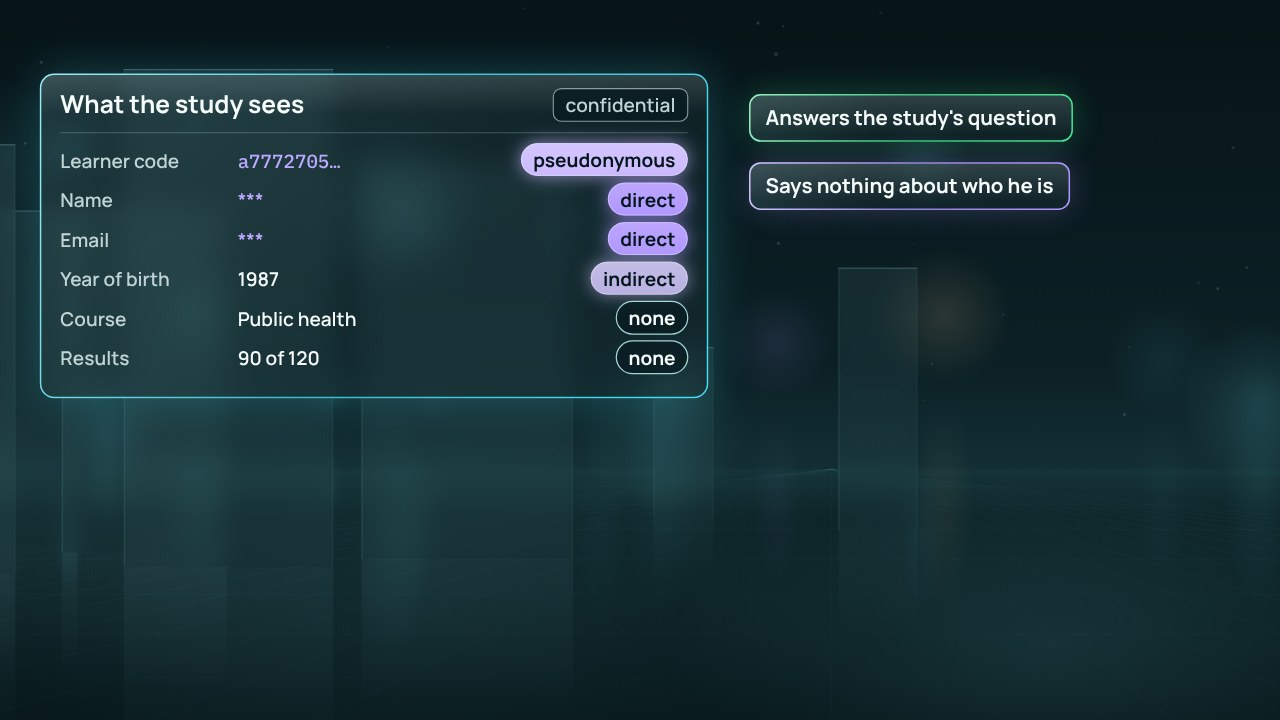
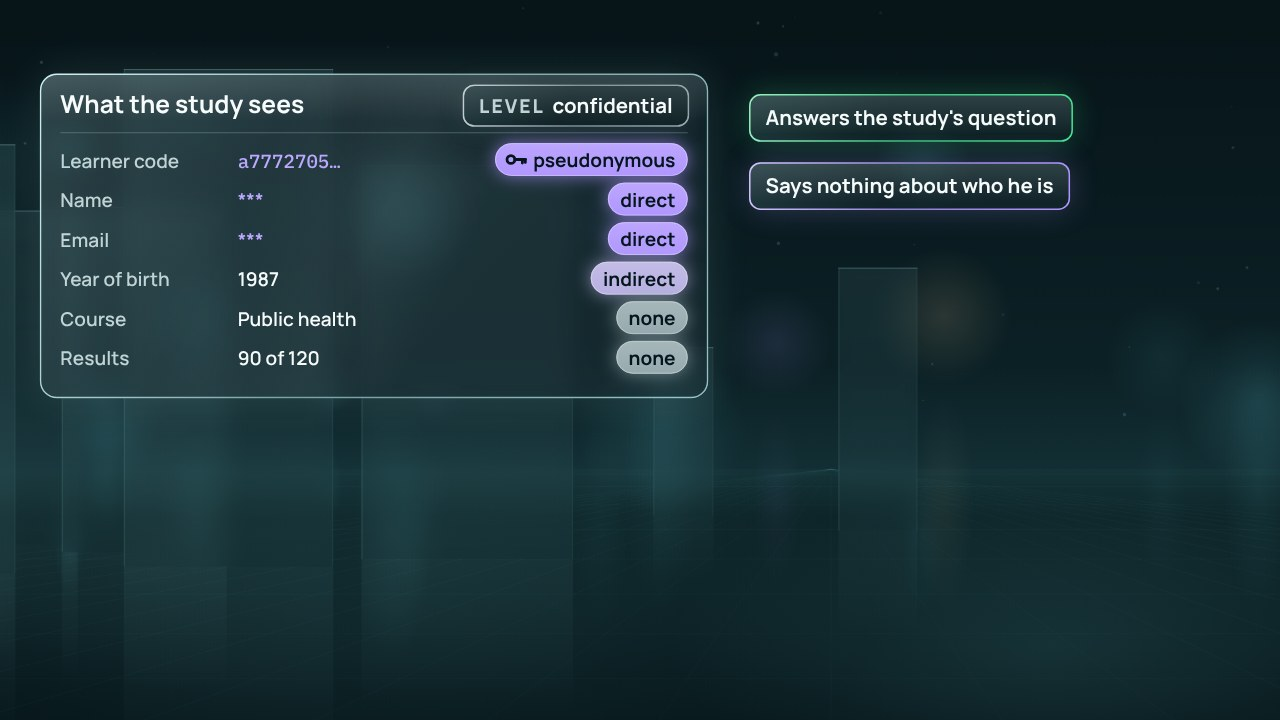
Show the least: classes and levels drawn as Know what you hold draws them
A column's class is a solid pill with dark words (special, direct and
pseudonymous in violet, special with a second ring, pseudonymous with a
small key; indirect in the quieter violet; none grey), and a table's
level is how far its pane is frosted, with a slip reading LEVEL and the
level's name, so films 11 and 12 agree. The published totals' card is
840 px wide so its slip clears its title. Frost over a single value
still means encryption. Poster, player and legibility row redrawn.

Claude-Session: https://claude.ai/code/session_01XBKciMHB6GxCUf9Z4uUume

Changed region(s): [[0.3438, 0.0917, 0.5625, 0.275], [0.4688, 0.3972, 0.5625, 0.55], [0.0312, 0.0917, 0.0625, 0.1222]]

diff --git a/site/assets/show-the-least/film.js b/site/assets/show-the-least/film.js
@@ -1942,8 +1942,10 @@ function sl_1872(ctx,t,o){o=o||{};const [px,py,pw,ph]=SL_T.paper,[sx,sy,sw,sh]=S
 /* ===== Show the least: what is shown in the hall =====
    Cards of frosted glass in the module's hall (glass.js), each in the colour of what it means: violet hidden personal data (stars,
    codes, "fewer than 10"), coral closed or a match that leaks, cyan an identity, gold only the chip on the sealed key. Frost over a
-   value means one thing here: encryption. The class chips are drawn as Know what you hold draws them: solid pills with dark words,
-   special violet with a double rim, direct violet, pseudonymous lilac, indirect pale lilac, none clear ice with ice words.
+   value means one thing here: encryption. Classes and levels are drawn as Know what you hold draws them (its thread's note, 10
+   November 2026): a column's class is a solid pill with dark words, special, direct and pseudonymous in the violet of hidden data
+   (special with a second ring, pseudonymous with a small key), indirect in the quieter violet, none grey; a table's level is how far
+   its pane is frosted (public clear, internal 0.4, confidential 0.8, restricted 1 with a violet rim) and a slip, "LEVEL" and its name.
    Every value changes in its cell: the old one leaves before the new one comes in, so two are never readable at once. */
 
 AG_PLACES.slHall=c=>dp_paintHall(c,{seed:12,horizon:700,vx:1240,pools:[[1560,960,560,0.11],[620,900,700,0.06]]});
@@ -1952,19 +1954,57 @@ function sl_once(sc,k,fn){sc.__sl=sc.__sl||{};if(!(k in sc.__sl))sc.__sl[k]=fn()
 const sl_out=u=>1-ag_sine(clamp(u*2,0,1)),sl_inn=u=>ag_sine(clamp(u*2-1,0,1));
 
 /* ---------------------------------------------------------------- chips: a column's class, a table's level */
-const SL_CLS={special:{col:"violet",dbl:true},direct:{col:"violet"},pseudonymous:{col:[204,186,255]},indirect:{col:"violet2"},none:{glass:true}};
-// a class chip, its words' baseline at y; align "right" puts its right edge at x; returns its width
+const SL_CLS={special:{col:"violet",dbl:true},direct:{col:"violet"},pseudonymous:{col:"violet",key:true},indirect:{col:"violet2"},none:{col:"grey"}};
+// a pill as the kit draws one (dp_pill: solid colour, dark words, y the words' baseline), with room before its words for a small
+// picture when icon(ctx, x, y) draws one, its middle at x, y; returns its width
+function sl_pill(ctx,x0,y,text,col,o){o=o||{};const c=dp_f(col),size=o.size||28,ix=o.icon?38:0,w=dp_tw(ctx,text,{w:700,size})+36+ix,h=size+20,a=o.a==null?1:o.a;if(a<=0)return w;
+  ctx.save();ctx.globalAlpha*=a;
+  ctx.save();ctx.shadowColor=rgba(c,0.7);ctx.shadowBlur=o.glow==null?18:o.glow;rr(ctx,x0,y-h+12,w,h,h/2);
+  const g=ctx.createLinearGradient(0,y-h+12,0,y+12);g.addColorStop(0,rgba(mix(c,[255,255,255],0.16),1));g.addColorStop(1,rgba(c,1));ctx.fillStyle=g;ctx.fill();ctx.restore();
+  rr(ctx,x0+0.6,y-h+12.6,w-1.2,h-1.2,h/2-0.6);ctx.strokeStyle=rgba(mix(c,[255,255,255],0.5),0.9);ctx.lineWidth=1.2;ctx.stroke();
+  if(o.icon)o.icon(ctx,x0+30,y-h/2+12,24);
+  dp_T(ctx,text,x0+18+ix,y-1,{w:700,size,col:DP.on});ctx.restore();return w;}
+// a small key, in the dark of words on solid colour, its bow's middle at x, y, s about its length (as Know what you hold draws it)
+function sl_keyGlyph(ctx,x,y,s){s=s||24;ctx.save();ctx.strokeStyle=rgba(DP.on,1);ctx.lineWidth=Math.max(2.4,s*0.17);ctx.lineCap="round";
+  ctx.beginPath();ctx.arc(x-s*0.28,y,s*0.24,0,TAU);ctx.stroke();ctx.beginPath();ctx.moveTo(x-s*0.04,y);ctx.lineTo(x+s*0.62,y);
+  ctx.moveTo(x+s*0.42,y);ctx.lineTo(x+s*0.42,y+s*0.22);ctx.moveTo(x+s*0.6,y);ctx.lineTo(x+s*0.6,y+s*0.18);ctx.stroke();ctx.restore();}
+// a class chip, its words' baseline at y; align "right" puts its right edge at x; special has a second ring; returns its width
 function sl_chip(ctx,x,y,cls,o){o=o||{};const C=SL_CLS[cls],a=o.a==null?1:o.a,size=o.size||28;if(!C||a<=0)return 0;
-  const w=dp_tw(ctx,cls,{w:700,size})+36,h=size+20,x0=o.align==="right"?x-w:o.align==="center"?x-w/2:x;
-  if(!C.glass){dp_pill(ctx,x0,y,cls,C.col,{size,a,glow:o.glow});
-    if(C.dbl){ctx.save();ctx.globalAlpha*=a;rr(ctx,x0-5,y-h+7,w+10,h+10,h/2+5);ctx.strokeStyle=rgba(mix(dp_f("violet"),[255,255,255],0.3),1);ctx.lineWidth=2;ctx.stroke();ctx.restore();}
-    return w;}
-  ctx.save();ctx.globalAlpha*=a;rr(ctx,x0,y-h+12,w,h,h/2);ctx.fillStyle="rgba(8,26,32,0.72)";ctx.fill();ctx.strokeStyle=rgba(DP.ice,0.85);ctx.lineWidth=1.8;ctx.stroke();
-  dp_T(ctx,cls,x0+18,y-1,{w:700,size,col:"ink"});ctx.restore();return w;}
-// a table's level, on a glass pill: confidential, restricted (rimmed in violet), public
-function sl_level(ctx,x,y,lv,o){o=o||{};const a=o.a==null?1:o.a;if(a<=0)return 0;const size=28,w=dp_tw(ctx,lv,{w:600,size})+36,h=48,x0=o.align==="right"?x-w:x;
-  ctx.save();ctx.globalAlpha*=a;rr(ctx,x0,y-h+12,w,h,12);ctx.fillStyle="rgba(8,26,32,0.8)";ctx.fill();ctx.strokeStyle=lv==="restricted"?rgba(dp_f("violet"),1):rgba(DP.F.grey,0.9);ctx.lineWidth=lv==="restricted"?2.6:1.6;ctx.stroke();
-  dp_T(ctx,lv,x0+18,y-1,{w:600,size,col:lv==="restricted"?"violet":"mut"});ctx.restore();return w;}
+  const w=dp_tw(ctx,cls,{w:700,size})+36+(C.key?38:0),h=size+20,x0=o.align==="right"?x-w:o.align==="center"?x-w/2:x,top=y-h+12;
+  sl_pill(ctx,x0,y,cls,C.col,{size,a,glow:o.glow,icon:C.key?sl_keyGlyph:null});
+  if(C.dbl){const c=dp_f(C.col),m=7,rw=w+2*m,rh=h+2*m;ctx.save();ctx.globalAlpha*=a;ctx.shadowColor=rgba(c,0.85);ctx.shadowBlur=12;
+    ctx.strokeStyle=rgba(mix(c,[255,255,255],0.3),1);ctx.lineWidth=2.4;rr(ctx,x0-m,top-m,rw,rh,rh/2);ctx.stroke();ctx.restore();}
+  return w;}
+// a table's level, as Know what you hold shows it: a slip of glass, grey (violet for restricted), its top right at x, y, reading "LEVEL"
+// and the level's name; returns its width
+function sl_level(ctx,x,y,lv,o){o=o||{};const a=o.a==null?1:o.a,lw=dp_tw(ctx,"LEVEL",{w:800,size:28,ls:3}),w=24+lw+14+dp_tw(ctx,lv,{w:700,size:30})+24,h=62,x0=x-w;
+  if(a<=0)return w;ctx.save();ctx.globalAlpha*=a;
+  dp_panel(ctx,x0,y,w,h,{col:lv==="restricted"?"violet":"grey",r:16,glowR:24,glowA:0.7,behind:o.behind});
+  dp_T(ctx,"LEVEL",x0+24,y+42,{w:800,size:28,ls:3,col:"mut"});dp_T(ctx,lv,x0+24+lw+14,y+42,{w:700,size:30});ctx.restore();return w;}
+// a table's pane of glass, as Know what you hold draws it: frosted as far as its level asks (public clear, internal 0.4, confidential
+// 0.8, restricted 1 with a violet rim); its edges catch the light in ice; o.rim overrides the violet rim (0 to 1); o.r, o.a, o.behind
+const SL_LEVEL={public:{frost:0,rim:0},internal:{frost:0.4,rim:0},confidential:{frost:0.8,rim:0},restricted:{frost:1,rim:1}};
+function sl_tablePane(ctx,x,y,w,h,o){o=o||{};const a=o.a==null?1:o.a;if(a<=0.001)return;const L=SL_LEVEL[o.level]||SL_LEVEL.confidential,fr=L.frost,
+  rim=clamp(o.rim==null?L.rim:o.rim,0,1),r=o.r==null?24:o.r,ice=DP.ice;
+  ctx.save();ctx.globalAlpha*=clamp(a,0,1);
+  ctx.save();ctx.shadowColor=rgba(ice,0.10+0.16*fr);ctx.shadowBlur=44;rr(ctx,x,y,w,h,r);ctx.fillStyle=rgba([6,20,26],0.12+0.5*fr);ctx.fill();ctx.restore();
+  ctx.save();rr(ctx,x,y,w,h,r);ctx.clip();
+  if(fr>0){ctx.save();ctx.globalAlpha*=fr;dp_behind(ctx,o.behind);ctx.restore();}
+  ctx.fillStyle=rgba([6,20,26],0.10+0.20*fr);ctx.fillRect(x,y,w,h);
+  const tg=ctx.createLinearGradient(x,y,x+w*0.5,y+h);tg.addColorStop(0,rgba([170,228,232],0.035+0.14*fr));tg.addColorStop(1,rgba([170,228,232],0.015+0.06*fr));ctx.fillStyle=tg;ctx.fillRect(x,y,w,h);
+  // a sheen across clear glass
+  const sg=ctx.createLinearGradient(x,y,x+w,y+h);sg.addColorStop(0,"rgba(210,248,248,0.07)");sg.addColorStop(0.32,"rgba(210,248,248,0.0)");sg.addColorStop(0.5,"rgba(210,248,248,0.05)");sg.addColorStop(0.62,"rgba(210,248,248,0)");
+  ctx.fillStyle=sg;ctx.fillRect(x,y,w,h);
+  const hg=ctx.createLinearGradient(0,y,0,y+70);hg.addColorStop(0,"rgba(225,250,250,"+(0.06+0.1*fr).toFixed(3)+")");hg.addColorStop(1,"rgba(255,255,255,0)");ctx.fillStyle=hg;ctx.fillRect(x,y,w,70);
+  ctx.restore();
+  // its edges catch the light; a restricted table's rim is violet
+  const eg=ctx.createLinearGradient(x,y,x+w,y+h);eg.addColorStop(0,rgba(mix(ice,[255,255,255],0.4),0.95));eg.addColorStop(0.5,rgba(ice,0.55));eg.addColorStop(1,rgba(ice,0.75));
+  rr(ctx,x+1,y+1,w-2,h-2,r);ctx.strokeStyle=eg;ctx.lineWidth=2;ctx.stroke();
+  if(rim>0)sl_rim(ctx,x,y,w,h,r,"violet",rim);
+  ctx.restore();}
+// a rim of colour round a pane, with its glow: a restricted table's violet, or the coral of a table that's closed
+function sl_rim(ctx,x,y,w,h,r,col,a){const v=dp_f(col);ctx.save();ctx.globalAlpha*=a;ctx.shadowColor=rgba(v,0.95);ctx.shadowBlur=22;rr(ctx,x-3,y-3,w+6,h+6,r+3);
+  ctx.strokeStyle=rgba(mix(v,[255,255,255],0.25),1);ctx.lineWidth=3.2;ctx.stroke();ctx.restore();}
 
 /* ---------------------------------------------------------------- Samuel's record, field by field
    rows: [{label, label2, lu, v, v2, u, mono, col, col2, chip, chip2, cu, chipA, lit, a, blank}]: v the value as it is, v2 what it
@@ -1975,13 +2015,13 @@ const SL_RW=58;
 function sl_recordH(rows){return 120+rows.length*SL_RW+8;}
 function sl_record(ctx,x,y,rows,o){o=o||{};const w=o.w||980,h=sl_recordH(rows),a=o.a==null?1:o.a;if(a<=0)return{x,y,w,h};
   ctx.save();ctx.globalAlpha*=a;if(o.k!=null)ag_about(ctx,x+w/2,y+h/2,lerp(0.6,1,o.k));
-  dp_panel(ctx,x,y,w,h,{col:o.col||"cyan",r:20,behind:o.behind});
+  const pl=o.level||o.paneLevel;if(pl)sl_tablePane(ctx,x,y,w,h,{level:pl,behind:o.behind});else dp_panel(ctx,x,y,w,h,{col:o.col||"cyan",r:20,behind:o.behind});
   // the title, which may change in place (title2, over tu)
   const tu=o.title2?clamp(o.tu||0,0,1):0;if(tu<1)dp_T(ctx,o.title||"Learner records",x+30,y+58,{w:700,size:36,a:o.title2?sl_out(tu):1});if(tu>0)dp_T(ctx,o.title2,x+30,y+58,{w:700,size:36,a:sl_inn(tu)});
-  if(o.level)sl_level(ctx,x+w-30,y+58,o.level,{align:"right",a:o.levelA==null?1:o.levelA});
+  if(o.level)sl_level(ctx,x+w-28,y+16,o.level,{a:o.levelA==null?1:o.levelA});
   ctx.fillStyle=rgba(DP.ice,0.25);ctx.fillRect(x+30,y+86,w-60,1.5);
   rows.forEach((r,i)=>{const by=y+138+i*SL_RW,ra=r.a==null?1:r.a;if(ra<=0)return;ctx.save();ctx.globalAlpha*=ra;
-    if(r.lit>0){ctx.save();ctx.globalAlpha*=clamp(r.lit,0,1);rr(ctx,x+14,by-40,w-28,54,12);ctx.fillStyle="rgba(120,220,235,0.10)";ctx.fill();ctx.fillStyle=rgba(DP.F.cyan,0.95);ctx.fillRect(x+14,by-34,4,42);ctx.restore();}
+    if(r.lit>0){ctx.save();ctx.globalAlpha*=clamp(r.lit,0,1);rr(ctx,x+14,by-40,w-28,54,12);ctx.fillStyle="rgba(120,220,235,0.075)";ctx.fill();ctx.fillStyle=rgba(DP.F.cyan,0.95);ctx.fillRect(x+14,by-34,4,42);ctx.restore();}
     const lu=r.label2?(r.lu==null?r.u||0:r.lu):0;
     if(lu<1)dp_T(ctx,r.label,x+30,by,{w:600,size:28,col:"mut",a:r.label2?sl_out(lu):1});if(r.label2&&lu>0)dp_T(ctx,r.label2,x+30,by,{w:600,size:28,col:"mut",a:sl_inn(lu)});
     const u=r.v2!=null?clamp(r.u||0,0,1):0,vx=x+290;
@@ -2066,11 +2106,11 @@ function sl_agree(ctx,x,y,w,rows,o){o=o||{};const a=o.a==null?1:o.a,lines=[],inn
 /* ---------------------------------------------------------------- the other cards */
 // the support table: one column, exam support, its values never drawn; closed shows it isn't given (coral)
 function sl_support(ctx,x,y,w,o){o=o||{};const a=o.a==null?1:o.a,h=196;if(a<=0)return{x,y,w,h};const cl=clamp(o.closed||0,0,1);ctx.save();ctx.globalAlpha*=a;
-  dp_panel(ctx,x,y,w,h,{col:cl>0.5?"coral":"violet",r:20});dp_T(ctx,"Support table",x+30,y+58,{w:700,size:36});
-  sl_level(ctx,x+w-30,y+58,"restricted",{align:"right"});
+  sl_tablePane(ctx,x,y,w,h,{level:"restricted",rim:1-cl});if(cl>0)sl_rim(ctx,x,y,w,h,24,"coral",cl);dp_T(ctx,"Support table",x+30,y+58,{w:700,size:36});
+  sl_level(ctx,x+w-28,y+16,"restricted");
   dp_T(ctx,"Exam support",x+30,y+136,{w:600,size:28,col:"mut"});ctx.fillStyle=rgba(DP.F.grey,0.35);rr(ctx,x+290,y+114,170,16,8);ctx.fill();
   if(o.chip!==false)sl_chip(ctx,x+w-30,y+136,"special",{align:"right",a:o.chipA==null?1:o.chipA});
-  if(cl>0){ctx.save();ctx.globalAlpha*=cl;rr(ctx,x,y,w,h,20);ctx.fillStyle="rgba(40,12,14,0.55)";ctx.fill();dp_pill(ctx,x+w/2,y+h/2+12,"Not given to the study","coral",{align:"center"});ctx.restore();}
+  if(cl>0){ctx.save();ctx.globalAlpha*=cl;rr(ctx,x,y,w,h,24);ctx.fillStyle="rgba(40,12,14,0.55)";ctx.fill();dp_pill(ctx,x+w/2,y+h/2+12,"Not given to the study","coral",{align:"center"});ctx.restore();}
   ctx.restore();return{x,y,w,h};}
 // a small card: a title and lines of words, each [text, colour, mono]
 function sl_note(ctx,x,y,w,title,lines,o){o=o||{};const a=o.a==null?1:o.a,h=86+lines.length*46;if(a<=0)return{x,y,w,h};ctx.save();ctx.globalAlpha*=a;
@@ -2102,11 +2142,11 @@ function sl_list(ctx,x,y,o){o=o||{};const a=o.a==null?1:o.a,w=560,h=96+SL_LIST.l
   ctx.restore();return{x,y,w,h,row:i=>[x+w,y+104+i*46-10]};}
 // published totals: learners who left after their first year, by course; a cell may read "fewer than 10" or "hidden"
 const SL_TOT=[["Nursing","38"],["Midwifery","4"],["Public health","21"],["Health sciences","17"],["Faculty of Health","80"]];
-function sl_totals(ctx,x,y,o){o=o||{};const a=o.a==null?1:o.a,w=760,h=118+SL_TOT.length*52;if(a<=0)return{x,y,w,h};ctx.save();ctx.globalAlpha*=a;
-  if(o.k!=null)ag_about(ctx,x+w/2,y+h/2,lerp(0.6,1,o.k));dp_panel(ctx,x,y,w,h,{col:"cyan",r:20});dp_T(ctx,"Left after first year · by course",x+30,y+58,{w:700,size:34});
-  sl_level(ctx,x+w-30,y+58,"public",{align:"right"});ctx.fillStyle=rgba(DP.ice,0.25);ctx.fillRect(x+30,y+84,w-60,1.5);
+function sl_totals(ctx,x,y,o){o=o||{};const a=o.a==null?1:o.a,w=840,h=118+SL_TOT.length*52;if(a<=0)return{x,y,w,h};ctx.save();ctx.globalAlpha*=a;
+  if(o.k!=null)ag_about(ctx,x+w/2,y+h/2,lerp(0.6,1,o.k));sl_tablePane(ctx,x,y,w,h,{level:"public"});dp_T(ctx,"Left after first year · by course",x+30,y+58,{w:700,size:34});
+  sl_level(ctx,x+w-28,y+16,"public");ctx.fillStyle=rgba(DP.ice,0.25);ctx.fillRect(x+30,y+84,w-60,1.5);
   SL_TOT.forEach((r,i)=>{const by=y+130+i*52,tot=i===SL_TOT.length-1,lit=o.lit&&o.lit[i]||0;
-    if(lit>0){ctx.save();ctx.globalAlpha*=lit;rr(ctx,x+14,by-36,w-28,50,12);ctx.fillStyle="rgba(120,220,235,0.10)";ctx.fill();ctx.fillStyle=rgba(DP.F.cyan,0.95);ctx.fillRect(x+14,by-30,4,38);ctx.restore();}
+    if(lit>0){ctx.save();ctx.globalAlpha*=lit;rr(ctx,x+14,by-36,w-28,50,12);ctx.fillStyle="rgba(120,220,235,0.075)";ctx.fill();ctx.fillStyle=rgba(DP.F.cyan,0.95);ctx.fillRect(x+14,by-30,4,38);ctx.restore();}
     if(tot){ctx.fillStyle=rgba(DP.ice,0.25);ctx.fillRect(x+30,by-40,w-60,1.5);}
     dp_T(ctx,r[0],x+30,by,{w:tot?700:600,size:28,col:tot?"ink":"mut"});
     const u=o.u&&o.u[i]||0,nv=o.nv&&o.nv[i];if(u<1)dp_T(ctx,r[1],x+w-30,by,{w:700,size:30,align:"right",a:nv?sl_out(u):1});if(nv&&u>0)dp_T(ctx,nv,x+w-30,by,{w:700,size:30,align:"right",col:"violet",a:sl_inn(u)});});
@@ -2269,7 +2309,7 @@ scene("ballot",(ctx,S,t,sc)=>{const c=sc.cues,P=sl_once(sc,"P",()=>{const P={
         const rows={num:{v:hid[0].concat([[st,SL_VAL.code]])},name:{v:hid[1].concat([[st+0.15,SL_VAL.star]]),lit:sl_lit(P.names-0.2,P.bdays-0.2)},email:{v:hid[2].concat([[st+0.3,SL_VAL.star]])},
           dob:{v:hid[3].concat([[st+0.45,SL_VAL.year]]),lit:sl_lit(P.bdays-0.2,P.dis-0.2)},course:{v:[[0,SL_VAL.course],[P.hide+0.68,SL_VAL.star],[c.mei+0.68,SL_VAL.course]]},
           res:{v:[[0,SL_VAL.res],[P.hide+0.8,SL_VAL.star],[c.mei+0.8,SL_VAL.res]]}};
-        sl_rec(x,tt,{rows,chipA:0,title:"Learner records, as kept",title2:"What the study sees",tu:(tt-st)/0.8,a:ra,k:ag_spr(tt,c.kept+0.1,0.6)});}
+        sl_rec(x,tt,{rows,chipA:0,title:"Learner records, as kept",title2:"What the study sees",tu:(tt-st)/0.8,a:ra,k:ag_spr(tt,c.kept+0.1,0.6),paneLevel:"confidential"});}
       const pa=ea*ag_in(tt,P.dis-0.4,0.4);if(pa>0){const lit=ag_io(tt,P.dis-0.2,c.all,0.4);withA(x,pa,()=>{const bb=sl_sup(x,{chip:false,closed:ag_in(tt,P.never,0.6)});
         if(lit>0){x.save();x.globalAlpha*=lit;rr(x,bb.x-4,bb.y-4,bb.w+8,bb.h+8,24);x.strokeStyle=rgba(DP.F.cyan,0.9);x.lineWidth=3;x.stroke();x.restore();}});}
       dp_slip(x,1120,150,"The study can't follow anyone","coral",{ink:true,a:ag_io(tt,P.hide+0.6,c.mei-0.1,0.4)});

diff --git a/films/only-what-you-may-see/3-show-the-least/source/src/sl_cards.js b/films/only-what-you-may-see/3-show-the-least/source/src/sl_cards.js
@@ -1,8 +1,10 @@
 /* ===== Show the least: what is shown in the hall =====
    Cards of frosted glass in the module's hall (glass.js), each in the colour of what it means: violet hidden personal data (stars,
    codes, "fewer than 10"), coral closed or a match that leaks, cyan an identity, gold only the chip on the sealed key. Frost over a
-   value means one thing here: encryption. The class chips are drawn as Know what you hold draws them: solid pills with dark words,
-   special violet with a double rim, direct violet, pseudonymous lilac, indirect pale lilac, none clear ice with ice words.
+   value means one thing here: encryption. Classes and levels are drawn as Know what you hold draws them (its thread's note, 10
+   November 2026): a column's class is a solid pill with dark words, special, direct and pseudonymous in the violet of hidden data
+   (special with a second ring, pseudonymous with a small key), indirect in the quieter violet, none grey; a table's level is how far
+   its pane is frosted (public clear, internal 0.4, confidential 0.8, restricted 1 with a violet rim) and a slip, "LEVEL" and its name.
    Every value changes in its cell: the old one leaves before the new one comes in, so two are never readable at once. */
 
 AG_PLACES.slHall=c=>dp_paintHall(c,{seed:12,horizon:700,vx:1240,pools:[[1560,960,560,0.11],[620,900,700,0.06]]});
@@ -11,19 +13,57 @@ function sl_once(sc,k,fn){sc.__sl=sc.__sl||{};if(!(k in sc.__sl))sc.__sl[k]=fn()
 const sl_out=u=>1-ag_sine(clamp(u*2,0,1)),sl_inn=u=>ag_sine(clamp(u*2-1,0,1));
 
 /* ---------------------------------------------------------------- chips: a column's class, a table's level */
-const SL_CLS={special:{col:"violet",dbl:true},direct:{col:"violet"},pseudonymous:{col:[204,186,255]},indirect:{col:"violet2"},none:{glass:true}};
-// a class chip, its words' baseline at y; align "right" puts its right edge at x; returns its width
+const SL_CLS={special:{col:"violet",dbl:true},direct:{col:"violet"},pseudonymous:{col:"violet",key:true},indirect:{col:"violet2"},none:{col:"grey"}};
+// a pill as the kit draws one (dp_pill: solid colour, dark words, y the words' baseline), with room before its words for a small
+// picture when icon(ctx, x, y) draws one, its middle at x, y; returns its width
+function sl_pill(ctx,x0,y,text,col,o){o=o||{};const c=dp_f(col),size=o.size||28,ix=o.icon?38:0,w=dp_tw(ctx,text,{w:700,size})+36+ix,h=size+20,a=o.a==null?1:o.a;if(a<=0)return w;
+  ctx.save();ctx.globalAlpha*=a;
+  ctx.save();ctx.shadowColor=rgba(c,0.7);ctx.shadowBlur=o.glow==null?18:o.glow;rr(ctx,x0,y-h+12,w,h,h/2);
+  const g=ctx.createLinearGradient(0,y-h+12,0,y+12);g.addColorStop(0,rgba(mix(c,[255,255,255],0.16),1));g.addColorStop(1,rgba(c,1));ctx.fillStyle=g;ctx.fill();ctx.restore();
+  rr(ctx,x0+0.6,y-h+12.6,w-1.2,h-1.2,h/2-0.6);ctx.strokeStyle=rgba(mix(c,[255,255,255],0.5),0.9);ctx.lineWidth=1.2;ctx.stroke();
+  if(o.icon)o.icon(ctx,x0+30,y-h/2+12,24);
+  dp_T(ctx,text,x0+18+ix,y-1,{w:700,size,col:DP.on});ctx.restore();return w;}
+// a small key, in the dark of words on solid colour, its bow's middle at x, y, s about its length (as Know what you hold draws it)
+function sl_keyGlyph(ctx,x,y,s){s=s||24;ctx.save();ctx.strokeStyle=rgba(DP.on,1);ctx.lineWidth=Math.max(2.4,s*0.17);ctx.lineCap="round";
+  ctx.beginPath();ctx.arc(x-s*0.28,y,s*0.24,0,TAU);ctx.stroke();ctx.beginPath();ctx.moveTo(x-s*0.04,y);ctx.lineTo(x+s*0.62,y);
+  ctx.moveTo(x+s*0.42,y);ctx.lineTo(x+s*0.42,y+s*0.22);ctx.moveTo(x+s*0.6,y);ctx.lineTo(x+s*0.6,y+s*0.18);ctx.stroke();ctx.restore();}
+// a class chip, its words' baseline at y; align "right" puts its right edge at x; special has a second ring; returns its width
 function sl_chip(ctx,x,y,cls,o){o=o||{};const C=SL_CLS[cls],a=o.a==null?1:o.a,size=o.size||28;if(!C||a<=0)return 0;
-  const w=dp_tw(ctx,cls,{w:700,size})+36,h=size+20,x0=o.align==="right"?x-w:o.align==="center"?x-w/2:x;
-  if(!C.glass){dp_pill(ctx,x0,y,cls,C.col,{size,a,glow:o.glow});
-    if(C.dbl){ctx.save();ctx.globalAlpha*=a;rr(ctx,x0-5,y-h+7,w+10,h+10,h/2+5);ctx.strokeStyle=rgba(mix(dp_f("violet"),[255,255,255],0.3),1);ctx.lineWidth=2;ctx.stroke();ctx.restore();}
-    return w;}
-  ctx.save();ctx.globalAlpha*=a;rr(ctx,x0,y-h+12,w,h,h/2);ctx.fillStyle="rgba(8,26,32,0.72)";ctx.fill();ctx.strokeStyle=rgba(DP.ice,0.85);ctx.lineWidth=1.8;ctx.stroke();
-  dp_T(ctx,cls,x0+18,y-1,{w:700,size,col:"ink"});ctx.restore();return w;}
-// a table's level, on a glass pill: confidential, restricted (rimmed in violet), public
-function sl_level(ctx,x,y,lv,o){o=o||{};const a=o.a==null?1:o.a;if(a<=0)return 0;const size=28,w=dp_tw(ctx,lv,{w:600,size})+36,h=48,x0=o.align==="right"?x-w:x;
-  ctx.save();ctx.globalAlpha*=a;rr(ctx,x0,y-h+12,w,h,12);ctx.fillStyle="rgba(8,26,32,0.8)";ctx.fill();ctx.strokeStyle=lv==="restricted"?rgba(dp_f("violet"),1):rgba(DP.F.grey,0.9);ctx.lineWidth=lv==="restricted"?2.6:1.6;ctx.stroke();
-  dp_T(ctx,lv,x0+18,y-1,{w:600,size,col:lv==="restricted"?"violet":"mut"});ctx.restore();return w;}
+  const w=dp_tw(ctx,cls,{w:700,size})+36+(C.key?38:0),h=size+20,x0=o.align==="right"?x-w:o.align==="center"?x-w/2:x,top=y-h+12;
+  sl_pill(ctx,x0,y,cls,C.col,{size,a,glow:o.glow,icon:C.key?sl_keyGlyph:null});
+  if(C.dbl){const c=dp_f(C.col),m=7,rw=w+2*m,rh=h+2*m;ctx.save();ctx.globalAlpha*=a;ctx.shadowColor=rgba(c,0.85);ctx.shadowBlur=12;
+    ctx.strokeStyle=rgba(mix(c,[255,255,255],0.3),1);ctx.lineWidth=2.4;rr(ctx,x0-m,top-m,rw,rh,rh/2);ctx.stroke();ctx.restore();}
+  return w;}
+// a table's level, as Know what you hold shows it: a slip of glass, grey (violet for restricted), its top right at x, y, reading "LEVEL"
+// and the level's name; returns its width
+function sl_level(ctx,x,y,lv,o){o=o||{};const a=o.a==null?1:o.a,lw=dp_tw(ctx,"LEVEL",{w:800,size:28,ls:3}),w=24+lw+14+dp_tw(ctx,lv,{w:700,size:30})+24,h=62,x0=x-w;
+  if(a<=0)return w;ctx.save();ctx.globalAlpha*=a;
+  dp_panel(ctx,x0,y,w,h,{col:lv==="restricted"?"violet":"grey",r:16,glowR:24,glowA:0.7,behind:o.behind});
+  dp_T(ctx,"LEVEL",x0+24,y+42,{w:800,size:28,ls:3,col:"mut"});dp_T(ctx,lv,x0+24+lw+14,y+42,{w:700,size:30});ctx.restore();return w;}
+// a table's pane of glass, as Know what you hold draws it: frosted as far as its level asks (public clear, internal 0.4, confidential
+// 0.8, restricted 1 with a violet rim); its edges catch the light in ice; o.rim overrides the violet rim (0 to 1); o.r, o.a, o.behind
+const SL_LEVEL={public:{frost:0,rim:0},internal:{frost:0.4,rim:0},confidential:{frost:0.8,rim:0},restricted:{frost:1,rim:1}};
+function sl_tablePane(ctx,x,y,w,h,o){o=o||{};const a=o.a==null?1:o.a;if(a<=0.001)return;const L=SL_LEVEL[o.level]||SL_LEVEL.confidential,fr=L.frost,
+  rim=clamp(o.rim==null?L.rim:o.rim,0,1),r=o.r==null?24:o.r,ice=DP.ice;
+  ctx.save();ctx.globalAlpha*=clamp(a,0,1);
+  ctx.save();ctx.shadowColor=rgba(ice,0.10+0.16*fr);ctx.shadowBlur=44;rr(ctx,x,y,w,h,r);ctx.fillStyle=rgba([6,20,26],0.12+0.5*fr);ctx.fill();ctx.restore();
+  ctx.save();rr(ctx,x,y,w,h,r);ctx.clip();
+  if(fr>0){ctx.save();ctx.globalAlpha*=fr;dp_behind(ctx,o.behind);ctx.restore();}
+  ctx.fillStyle=rgba([6,20,26],0.10+0.20*fr);ctx.fillRect(x,y,w,h);
+  const tg=ctx.createLinearGradient(x,y,x+w*0.5,y+h);tg.addColorStop(0,rgba([170,228,232],0.035+0.14*fr));tg.addColorStop(1,rgba([170,228,232],0.015+0.06*fr));ctx.fillStyle=tg;ctx.fillRect(x,y,w,h);
+  // a sheen across clear glass
+  const sg=ctx.createLinearGradient(x,y,x+w,y+h);sg.addColorStop(0,"rgba(210,248,248,0.07)");sg.addColorStop(0.32,"rgba(210,248,248,0.0)");sg.addColorStop(0.5,"rgba(210,248,248,0.05)");sg.addColorStop(0.62,"rgba(210,248,248,0)");
+  ctx.fillStyle=sg;ctx.fillRect(x,y,w,h);
+  const hg=ctx.createLinearGradient(0,y,0,y+70);hg.addColorStop(0,"rgba(225,250,250,"+(0.06+0.1*fr).toFixed(3)+")");hg.addColorStop(1,"rgba(255,255,255,0)");ctx.fillStyle=hg;ctx.fillRect(x,y,w,70);
+  ctx.restore();
+  // its edges catch the light; a restricted table's rim is violet
+  const eg=ctx.createLinearGradient(x,y,x+w,y+h);eg.addColorStop(0,rgba(mix(ice,[255,255,255],0.4),0.95));eg.addColorStop(0.5,rgba(ice,0.55));eg.addColorStop(1,rgba(ice,0.75));
+  rr(ctx,x+1,y+1,w-2,h-2,r);ctx.strokeStyle=eg;ctx.lineWidth=2;ctx.stroke();
+  if(rim>0)sl_rim(ctx,x,y,w,h,r,"violet",rim);
+  ctx.restore();}
+// a rim of colour round a pane, with its glow: a restricted table's violet, or the coral of a table that's closed
+function sl_rim(ctx,x,y,w,h,r,col,a){const v=dp_f(col);ctx.save();ctx.globalAlpha*=a;ctx.shadowColor=rgba(v,0.95);ctx.shadowBlur=22;rr(ctx,x-3,y-3,w+6,h+6,r+3);
+  ctx.strokeStyle=rgba(mix(v,[255,255,255],0.25),1);ctx.lineWidth=3.2;ctx.stroke();ctx.restore();}
 
 /* ---------------------------------------------------------------- Samuel's record, field by field
    rows: [{label, label2, lu, v, v2, u, mono, col, col2, chip, chip2, cu, chipA, lit, a, blank}]: v the value as it is, v2 what it
@@ -34,13 +74,13 @@ const SL_RW=58;
 function sl_recordH(rows){return 120+rows.length*SL_RW+8;}
 function sl_record(ctx,x,y,rows,o){o=o||{};const w=o.w||980,h=sl_recordH(rows),a=o.a==null?1:o.a;if(a<=0)return{x,y,w,h};
   ctx.save();ctx.globalAlpha*=a;if(o.k!=null)ag_about(ctx,x+w/2,y+h/2,lerp(0.6,1,o.k));
-  dp_panel(ctx,x,y,w,h,{col:o.col||"cyan",r:20,behind:o.behind});
+  const pl=o.level||o.paneLevel;if(pl)sl_tablePane(ctx,x,y,w,h,{level:pl,behind:o.behind});else dp_panel(ctx,x,y,w,h,{col:o.col||"cyan",r:20,behind:o.behind});
   // the title, which may change in place (title2, over tu)
   const tu=o.title2?clamp(o.tu||0,0,1):0;if(tu<1)dp_T(ctx,o.title||"Learner records",x+30,y+58,{w:700,size:36,a:o.title2?sl_out(tu):1});if(tu>0)dp_T(ctx,o.title2,x+30,y+58,{w:700,size:36,a:sl_inn(tu)});
-  if(o.level)sl_level(ctx,x+w-30,y+58,o.level,{align:"right",a:o.levelA==null?1:o.levelA});
+  if(o.level)sl_level(ctx,x+w-28,y+16,o.level,{a:o.levelA==null?1:o.levelA});
   ctx.fillStyle=rgba(DP.ice,0.25);ctx.fillRect(x+30,y+86,w-60,1.5);
   rows.forEach((r,i)=>{const by=y+138+i*SL_RW,ra=r.a==null?1:r.a;if(ra<=0)return;ctx.save();ctx.globalAlpha*=ra;
-    if(r.lit>0){ctx.save();ctx.globalAlpha*=clamp(r.lit,0,1);rr(ctx,x+14,by-40,w-28,54,12);ctx.fillStyle="rgba(120,220,235,0.10)";ctx.fill();ctx.fillStyle=rgba(DP.F.cyan,0.95);ctx.fillRect(x+14,by-34,4,42);ctx.restore();}
+    if(r.lit>0){ctx.save();ctx.globalAlpha*=clamp(r.lit,0,1);rr(ctx,x+14,by-40,w-28,54,12);ctx.fillStyle="rgba(120,220,235,0.075)";ctx.fill();ctx.fillStyle=rgba(DP.F.cyan,0.95);ctx.fillRect(x+14,by-34,4,42);ctx.restore();}
     const lu=r.label2?(r.lu==null?r.u||0:r.lu):0;
     if(lu<1)dp_T(ctx,r.label,x+30,by,{w:600,size:28,col:"mut",a:r.label2?sl_out(lu):1});if(r.label2&&lu>0)dp_T(ctx,r.label2,x+30,by,{w:600,size:28,col:"mut",a:sl_inn(lu)});
     const u=r.v2!=null?clamp(r.u||0,0,1):0,vx=x+290;
@@ -125,11 +165,11 @@ function sl_agree(ctx,x,y,w,rows,o){o=o||{};const a=o.a==null?1:o.a,lines=[],inn
 /* ---------------------------------------------------------------- the other cards */
 // the support table: one column, exam support, its values never drawn; closed shows it isn't given (coral)
 function sl_support(ctx,x,y,w,o){o=o||{};const a=o.a==null?1:o.a,h=196;if(a<=0)return{x,y,w,h};const cl=clamp(o.closed||0,0,1);ctx.save();ctx.globalAlpha*=a;
-  dp_panel(ctx,x,y,w,h,{col:cl>0.5?"coral":"violet",r:20});dp_T(ctx,"Support table",x+30,y+58,{w:700,size:36});
-  sl_level(ctx,x+w-30,y+58,"restricted",{align:"right"});
+  sl_tablePane(ctx,x,y,w,h,{level:"restricted",rim:1-cl});if(cl>0)sl_rim(ctx,x,y,w,h,24,"coral",cl);dp_T(ctx,"Support table",x+30,y+58,{w:700,size:36});
+  sl_level(ctx,x+w-28,y+16,"restricted");
   dp_T(ctx,"Exam support",x+30,y+136,{w:600,size:28,col:"mut"});ctx.fillStyle=rgba(DP.F.grey,0.35);rr(ctx,x+290,y+114,170,16,8);ctx.fill();
   if(o.chip!==false)sl_chip(ctx,x+w-30,y+136,"special",{align:"right",a:o.chipA==null?1:o.chipA});
-  if(cl>0){ctx.save();ctx.globalAlpha*=cl;rr(ctx,x,y,w,h,20);ctx.fillStyle="rgba(40,12,14,0.55)";ctx.fill();dp_pill(ctx,x+w/2,y+h/2+12,"Not given to the study","coral",{align:"center"});ctx.restore();}
+  if(cl>0){ctx.save();ctx.globalAlpha*=cl;rr(ctx,x,y,w,h,24);ctx.fillStyle="rgba(40,12,14,0.55)";ctx.fill();dp_pill(ctx,x+w/2,y+h/2+12,"Not given to the study","coral",{align:"center"});ctx.restore();}
   ctx.restore();return{x,y,w,h};}
 // a small card: a title and lines of words, each [text, colour, mono]
 function sl_note(ctx,x,y,w,title,lines,o){o=o||{};const a=o.a==null?1:o.a,h=86+lines.length*46;if(a<=0)return{x,y,w,h};ctx.save();ctx.globalAlpha*=a;
@@ -161,11 +201,11 @@ function sl_list(ctx,x,y,o){o=o||{};const a=o.a==null?1:o.a,w=560,h=96+SL_LIST.l
   ctx.restore();return{x,y,w,h,row:i=>[x+w,y+104+i*46-10]};}
 // published totals: learners who left after their first year, by course; a cell may read "fewer than 10" or "hidden"
 const SL_TOT=[["Nursing","38"],["Midwifery","4"],["Public health","21"],["Health sciences","17"],["Faculty of Health","80"]];
-function sl_totals(ctx,x,y,o){o=o||{};const a=o.a==null?1:o.a,w=760,h=118+SL_TOT.length*52;if(a<=0)return{x,y,w,h};ctx.save();ctx.globalAlpha*=a;
-  if(o.k!=null)ag_about(ctx,x+w/2,y+h/2,lerp(0.6,1,o.k));dp_panel(ctx,x,y,w,h,{col:"cyan",r:20});dp_T(ctx,"Left after first year · by course",x+30,y+58,{w:700,size:34});
-  sl_level(ctx,x+w-30,y+58,"public",{align:"right"});ctx.fillStyle=rgba(DP.ice,0.25);ctx.fillRect(x+30,y+84,w-60,1.5);
+function sl_totals(ctx,x,y,o){o=o||{};const a=o.a==null?1:o.a,w=840,h=118+SL_TOT.length*52;if(a<=0)return{x,y,w,h};ctx.save();ctx.globalAlpha*=a;
+  if(o.k!=null)ag_about(ctx,x+w/2,y+h/2,lerp(0.6,1,o.k));sl_tablePane(ctx,x,y,w,h,{level:"public"});dp_T(ctx,"Left after first year · by course",x+30,y+58,{w:700,size:34});
+  sl_level(ctx,x+w-28,y+16,"public");ctx.fillStyle=rgba(DP.ice,0.25);ctx.fillRect(x+30,y+84,w-60,1.5);
   SL_TOT.forEach((r,i)=>{const by=y+130+i*52,tot=i===SL_TOT.length-1,lit=o.lit&&o.lit[i]||0;
-    if(lit>0){ctx.save();ctx.globalAlpha*=lit;rr(ctx,x+14,by-36,w-28,50,12);ctx.fillStyle="rgba(120,220,235,0.10)";ctx.fill();ctx.fillStyle=rgba(DP.F.cyan,0.95);ctx.fillRect(x+14,by-30,4,38);ctx.restore();}
+    if(lit>0){ctx.save();ctx.globalAlpha*=lit;rr(ctx,x+14,by-36,w-28,50,12);ctx.fillStyle="rgba(120,220,235,0.075)";ctx.fill();ctx.fillStyle=rgba(DP.F.cyan,0.95);ctx.fillRect(x+14,by-30,4,38);ctx.restore();}
     if(tot){ctx.fillStyle=rgba(DP.ice,0.25);ctx.fillRect(x+30,by-40,w-60,1.5);}
     dp_T(ctx,r[0],x+30,by,{w:tot?700:600,size:28,col:tot?"ink":"mut"});
     const u=o.u&&o.u[i]||0,nv=o.nv&&o.nv[i];if(u<1)dp_T(ctx,r[1],x+w-30,by,{w:700,size:30,align:"right",a:nv?sl_out(u):1});if(nv&&u>0)dp_T(ctx,nv,x+w-30,by,{w:700,size:30,align:"right",col:"violet",a:sl_inn(u)});});

diff --git a/films/only-what-you-may-see/3-show-the-least/source/src/scenes.js b/films/only-what-you-may-see/3-show-the-least/source/src/scenes.js
@@ -141,7 +141,7 @@ scene("ballot",(ctx,S,t,sc)=>{const c=sc.cues,P=sl_once(sc,"P",()=>{const P={
         const rows={num:{v:hid[0].concat([[st,SL_VAL.code]])},name:{v:hid[1].concat([[st+0.15,SL_VAL.star]]),lit:sl_lit(P.names-0.2,P.bdays-0.2)},email:{v:hid[2].concat([[st+0.3,SL_VAL.star]])},
           dob:{v:hid[3].concat([[st+0.45,SL_VAL.year]]),lit:sl_lit(P.bdays-0.2,P.dis-0.2)},course:{v:[[0,SL_VAL.course],[P.hide+0.68,SL_VAL.star],[c.mei+0.68,SL_VAL.course]]},
           res:{v:[[0,SL_VAL.res],[P.hide+0.8,SL_VAL.star],[c.mei+0.8,SL_VAL.res]]}};
-        sl_rec(x,tt,{rows,chipA:0,title:"Learner records, as kept",title2:"What the study sees",tu:(tt-st)/0.8,a:ra,k:ag_spr(tt,c.kept+0.1,0.6)});}
+        sl_rec(x,tt,{rows,chipA:0,title:"Learner records, as kept",title2:"What the study sees",tu:(tt-st)/0.8,a:ra,k:ag_spr(tt,c.kept+0.1,0.6),paneLevel:"confidential"});}
       const pa=ea*ag_in(tt,P.dis-0.4,0.4);if(pa>0){const lit=ag_io(tt,P.dis-0.2,c.all,0.4);withA(x,pa,()=>{const bb=sl_sup(x,{chip:false,closed:ag_in(tt,P.never,0.6)});
         if(lit>0){x.save();x.globalAlpha*=lit;rr(x,bb.x-4,bb.y-4,bb.w+8,bb.h+8,24);x.strokeStyle=rgba(DP.F.cyan,0.9);x.lineWidth=3;x.stroke();x.restore();}});}
       dp_slip(x,1120,150,"The study can't follow anyone","coral",{ink:true,a:ag_io(tt,P.hide+0.6,c.mei-0.1,0.4)});

diff --git a/films/only-what-you-may-see/3-show-the-least/script.md b/films/only-what-you-may-see/3-show-the-least/script.md
@@ -51,22 +51,22 @@ The practice behind it: a practitioner starts from the question and the agreemen
 | The count board, chalk tallies under "Totals" | Published totals |
 | The paper's number and its stub in a sealed packet, 1872 | A way back to the person that only the holder of the seal can open: the key |
 | Samuel's row | One learner's record, column by column, as each reader sees it |
-| Violet chips (`direct`, `special` and `pseudonymous` solid, `indirect` lighter, `none` an outline) | Each column's class, set by its owner (*Know what you hold*): the stricter, the stronger |
-| Level pills of glass (`confidential`, `restricted` rimmed in violet, `public`) | Each table's level |
+| Class chips, as *Know what you hold* draws them: solid pills with dark words, `special`, `direct` and `pseudonymous` in violet (`special` with a second ring, `pseudonymous` with a small key), `indirect` in the quieter violet, `none` grey | Each column's class, set by its owner (*Know what you hold*) |
+| How far a table's pane is frosted (`public` clear, `confidential` 0.8, `restricted` all, rimmed in violet), with a slip: "LEVEL" and its name | Each table's level, as *Know what you hold* shows it |
 | The nine way tiles | The ways to hide a value, named exactly as `numbers.md` writes them |
 | The three questions, numbered on a card | What the reader sees; can it be undone, and by whom; what the reader can still work out |
 | Violet stars and codes | Hidden personal data |
 | A coral, closed card | What a reader isn't given (the support table), or a match that leaks |
 | The sealed key card | The keyed hash's key, never drawn, kept by the registrar's office |
 | The vault, a sealed card | The token's vault, kept by the registrar's office; its pairs never drawn |
-| Frost over a value | Encryption: all there, unreadable without the key |
+| Violet frost over one value | Encryption: all there, unreadable without the key |
 | The agreement card, 2026-14 | What the study may have, in plain words (*An agreement first*) |
 | The totals card, "fewer than 10", "hidden" | Published totals, small counts hidden, and one more beside them |
 | The agent's sphere, its band in cyan | An agent helping the study, with the study's view (*AI agents in data work*) |
 
 ## The look
 
-Night glass, variant GA (`films/locks-before-the-data/shared/`, the module's kit): a dark petrol hall of frosted glass panes, light along their edges, ice words, every word at least 28 px as seen and at least 4.5 to 1; nothing below y 890. Cyan is an identity (a person's or an agent's label, the roll's "who"); green allowed; coral denied or closed (the support table not given, a match that leaks, the sum that gives a count back); violet hidden personal data (stars, codes, "fewer than 10", "hidden") and the class chips, stronger for stricter; grey what needs no protection ("Everyone sees the totals"). Gold, the kit's chip on a genuine card, and amber (power switched on) aren't used. The way tiles are clear ice glass; the one in use is lit brighter, never coloured, so a tile never reads as allowed or denied. Frost has one meaning here, encryption; masked values are stars, as the example project's mask writes them (the style prototype's still f2 drew a masked name under frost; this film keeps frost for one meaning).
+Night glass, variant GA (`films/locks-before-the-data/shared/`, the module's kit): a dark petrol hall of frosted glass panes, light along their edges, ice words, every word at least 28 px as seen and at least 4.5 to 1; nothing below y 890. Cyan is an identity (a person's or an agent's label, the roll's "who"); green allowed; coral denied or closed (the support table not given, a match that leaks, the sum that gives a count back); violet hidden personal data (stars, codes, "fewer than 10", "hidden") and the classes of personal data, the quieter violet an indirect one; grey what needs no protection ("Everyone sees the totals", the `none` chip). Gold, the kit's chip on a genuine card, and amber (power switched on) aren't used. The way tiles are clear ice glass; the one in use is lit brighter, never coloured, so a tile never reads as allowed or denied. Frost over a value has one meaning here, encryption, and a table's pane is frosted as far as its level asks, as in *Know what you hold*; masked values are stars, as the example project's mask writes them (the style prototype's still f2 drew a masked name under frost; this film keeps frost over a value for one meaning).
 
 Three places, each painted once when the player asks for it, under 2 s:
 
@@ -114,7 +114,7 @@ Key `questions`. In the hall; the camera glides on.
 |---|---|---|
 | `may` | The study's agreement says what it may have: each learner's course and results, their year of birth, and a code in place of who they are. | The agreement card, top left: "Data sharing agreement 2026-14", "For a study in the Faculty of Health"; one line lit: "May have · Each learner's course and results; their year of birth; a code in place of who they are". A line under it: "From the film An agreement first" |
 | `never` | And never anything that names a learner, or anything about their health. | The line "Never · Anything that names a learner; anything about their health" lit |
-| `class` | Each column already has the class its owner set: direct, indirect, special, or none. | The learner records card, a violet chip on each column: Student number, Name and Email `direct`; Date of birth `indirect`; Course and Results `none`; the card's level `confidential`. The support table: Exam support `special`, level `restricted`. A line: "Classes from the film Know what you hold" |
+| `class` | Each column already has the class its owner set: direct, indirect, special, or none. | The learner records card, a class chip on each column: Student number, Name and Email `direct`; Date of birth `indirect`; Course and Results `none`; its slip "LEVEL confidential". The support table: Exam support `special`, "LEVEL restricted". A line: "Classes from the film Know what you hold" |
 | `nine` | So which way should hide each one? There are nine, and three questions tell them apart. | The cards leave; nine tiles come in, in three rows across the top: Leave it out · Mask it whole · Mask it in part / Generalise · Keyed hash · Token / Encryption · Totals, small counts hidden · Filter rows |
 | `see` | What does the reader see? | A card under the tiles, "Three questions": 1, "What does the reader see?" |
 | `undo` | Can it be undone, and by whom? | 2, "Can it be undone, and by whom?" |
@@ -168,7 +168,7 @@ Key `totals`. In the hall; a cut to 1856 at the end.
 | Line | Narration | Picture |
 |---|---|---|
 | `publish` | When the study is done, it may publish totals, with any count under 10 hidden. | The agreement's line "May leave · Totals, with any count under 10 hidden" lit |
-| `left` | Here, learners who left after their first year, by course. | A card, level chip `public`: "Left after first year · by course": Nursing 38 · Midwifery 4 · Public health 21 · Health sciences 17 · Faculty of Health 80 |
+| `left` | Here, learners who left after their first year, by course. | A card on clear glass, its slip "LEVEL public": "Left after first year · by course": Nursing 38 · Midwifery 4 · Public health 21 · Health sciences 17 · Faculty of Health 80 |
 | `small` | Midwifery's 4 is a small count: in a class that size, people would know who left. | Midwifery's row lit |
 | `fewer` | So it reads: fewer than 10. | 4 becomes "fewer than 10" (violet). The card: "Totals, small counts hidden": Sees totals · Undone no · Still works totals |
 | `back` | But the faculty's total is there too: 80, less 38, 21 and 17, gives the 4 back. | The rows lit, and a coral slip under the card: "80 − 38 − 21 − 17 = 4" |

diff --git a/films/only-what-you-may-see/3-show-the-least/decided.md b/films/only-what-you-may-see/3-show-the-least/decided.md
@@ -14,3 +14,4 @@ This film's rows of the series' *Decided* table in [proposal.md](../proposal.md)
 | 10 November 2026 | The polling room as built: a timber room at dusk, warm lamplight with only a faint cool edge from the windows (`SL_LAMP`), since a rim of the hall's light read as an outline in a room with no glass; the official standing behind his tall desk and the voter facing him on one eye line; a rail at the back where the public stands, its three onlookers leaving as whole pictures before the booth and the box on its stand come in. The 1850s men are coloured for their time in `SL_CAST`, clear of the meaning colours, with no hats indoors; side whiskers read as a grey patch, so the official is clean-shaven and the employer has the grey beard. |
 | 10 November 2026 | The place labels, a kicker and a title, are held still on the screen while the camera glides under them, since drawn in the room they drifted towards the frame's edge as it zoomed. The earlier films are named as films ("From the film An agreement first", "Classes from the film Know what you hold"), since "From An agreement first" read as a slip. The hall's cards leave as a chapter's title comes in, so no words sit under its veil. The poster is the film's last moment: "What the study sees", with both slips. |
 | 10 November 2026 | Made again on main as it was rewritten on 9 November, with nothing of the old branch carried but its own narration and pages. The soundtrack follows main's new rule: published, for this film only, to its own audio release (`audio-show-the-least-a9bacf29bd8d68bf01df`) by the *Store audio outside Git* workflow, checked with `media.py verify-remote`, and pointed to by `audio.json`; the MP3 is kept out of Git, and the site's deployment restores it. |
+| 10 November 2026 | Classes and levels drawn as *Know what you hold* draws them, from its thread's note of 10 November, so the two films agree: a column's class is a solid pill with dark words, `special`, `direct` and `pseudonymous` in violet (`special` with a second ring, `pseudonymous` with a small key), `indirect` in the quieter violet and `none` grey, as the kit's meanings say (`DP_MEANS`); a table's level is how far its pane is frosted (`public` clear, `confidential` 0.8, `restricted` all, rimmed in violet) with a slip, "LEVEL" and its name. The published totals' card is a little wider (840 px), so its slip clears its title. Frost over a single value still means encryption. |

diff --git a/films/only-what-you-may-see/proposal.md b/films/only-what-you-may-see/proposal.md
@@ -20,6 +20,7 @@
 | 10 November 2026 | The polling room as built: a timber room at dusk, warm lamplight with only a faint cool edge from the windows (`SL_LAMP`), since a rim of the hall's light read as an outline in a room with no glass; the official standing behind his tall desk and the voter facing him on one eye line; a rail at the back where the public stands, its three onlookers leaving as whole pictures before the booth and the box on its stand come in. The 1850s men are coloured for their time in `SL_CAST`, clear of the meaning colours, with no hats indoors; side whiskers read as a grey patch, so the official is clean-shaven and the employer has the grey beard. |
 | 10 November 2026 | The place labels, a kicker and a title, are held still on the screen while the camera glides under them, since drawn in the room they drifted towards the frame's edge as it zoomed. The earlier films are named as films ("From the film An agreement first", "Classes from the film Know what you hold"), since "From An agreement first" read as a slip. The hall's cards leave as a chapter's title comes in, so no words sit under its veil. The poster is the film's last moment: "What the study sees", with both slips. |
 | 10 November 2026 | Made again on main as it was rewritten on 9 November, with nothing of the old branch carried but its own narration and pages. The soundtrack follows main's new rule: published, for this film only, to its own audio release (`audio-show-the-least-a9bacf29bd8d68bf01df`) by the *Store audio outside Git* workflow, checked with `media.py verify-remote`, and pointed to by `audio.json`; the MP3 is kept out of Git, and the site's deployment restores it. |
+| 10 November 2026 | Classes and levels drawn as *Know what you hold* draws them, from its thread's note of 10 November, so the two films agree: a column's class is a solid pill with dark words, `special`, `direct` and `pseudonymous` in violet (`special` with a second ring, `pseudonymous` with a small key), `indirect` in the quieter violet and `none` grey, as the kit's meanings say (`DP_MEANS`); a table's level is how far its pane is frosted (`public` clear, `confidential` 0.8, `restricted` all, rimmed in violet) with a slip, "LEVEL" and its name. The published totals' card is a little wider (840 px), so its slip clears its title. Frost over a single value still means encryption. |
 <!-- /decided -->
 
 ## The brief

diff --git a/films/legibility-report.md b/films/legibility-report.md
@@ -90,7 +90,7 @@
 | A capability, not a project | 400 | 0% | 0 | 30.0 | Drawn to the rule |
 | Who does what, end to end | 496 | 0% | 0 | 30.0 | Drawn to the rule |
 | Where each piece lives | 327 | 0% | 0 | 30.1 | Drawn to the rule |
-| Show the least | 326 | 0% | 0 | 28.3 | Drawn to the rule |
+| Show the least | 332 | 0% | 0 | 28.3 | Drawn to the rule |
 | Decades in the making | 226 | 0% | 0 | 32.6 | Drawn to the rule |
 | Borrowed from the brain | 203 | 0% | 0 | 30.1 | Drawn to the rule |
 | A model, reasoning, hands and a loop | 303 | 0% | 0 | 30.0 | Drawn to the rule |
